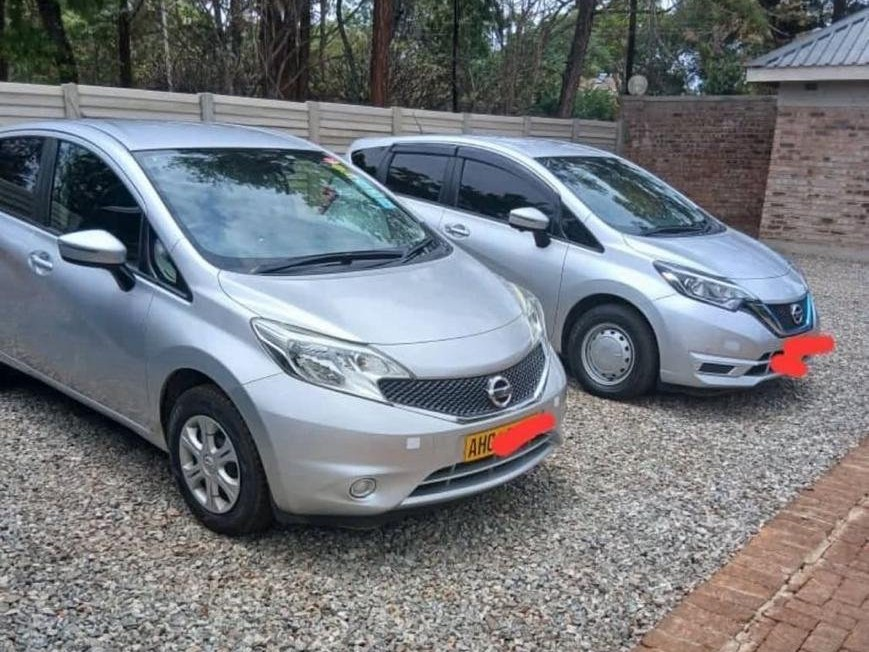
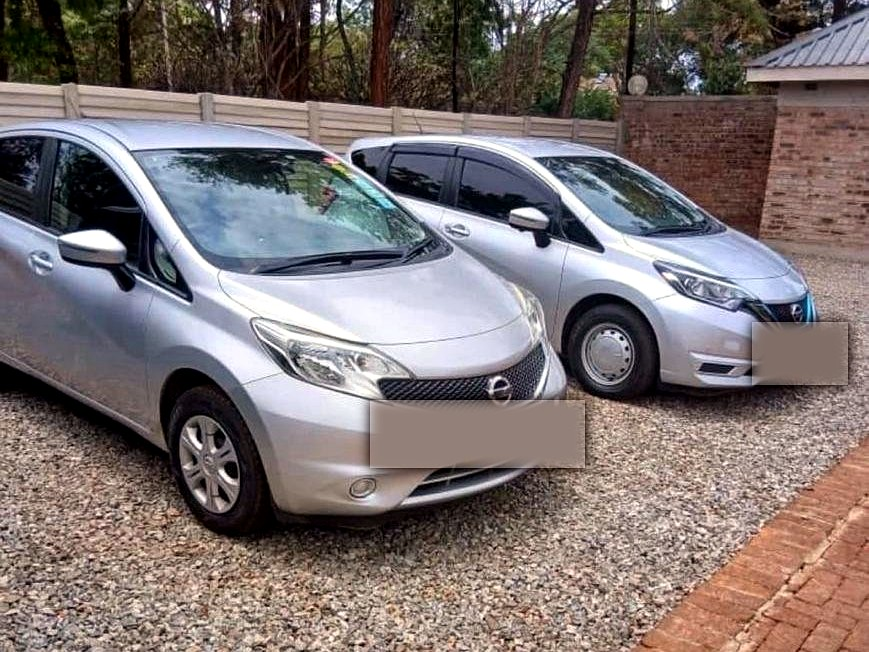
Add Facebook support to the social showcase (was Instagram/TikTok only), expand to 4 slots; fix Nissan Note photo's harsh red plate redaction marks (replaced with clean neutral blur, one plate was still partially legible)

diff --git a/src/components/site/sections.tsx b/src/components/site/sections.tsx
@@ -498,17 +498,19 @@ export function RequirementsSection() {
   );
 }
 
-type EmbedPlatform = "instagram" | "tiktok" | null;
+type EmbedPlatform = "instagram" | "tiktok" | "facebook" | null;
 
 function detectSocialPlatform(url: string): EmbedPlatform {
   if (/instagram\.com/.test(url)) return "instagram";
   if (/tiktok\.com/.test(url)) return "tiktok";
+  if (/facebook\.com|fb\.watch/.test(url)) return "facebook";
   return null;
 }
 
 const platformLabel: Record<Exclude<EmbedPlatform, null>, string> = {
   instagram: "Instagram",
   tiktok: "TikTok",
+  facebook: "Facebook",
 };
 
 export function SocialShowcaseSection() {
@@ -517,6 +519,7 @@ export function SocialShowcaseSection() {
     content.social_showcase_1,
     content.social_showcase_2,
     content.social_showcase_3,
+    content.social_showcase_4,
   ].filter((url): url is string => Boolean(url));
 
   return (
@@ -528,7 +531,7 @@ export function SocialShowcaseSection() {
         align="center"
       />
       {links.length > 0 ? (
-        <div className="mt-10 grid gap-6 sm:grid-cols-2 lg:grid-cols-3">
+        <div className="mt-10 grid gap-6 sm:grid-cols-2">
           {links.map((url, i) => {
             const platform = detectSocialPlatform(url);
             const label = platform ? platformLabel[platform] : "Social";

diff --git a/src/routes/admin/content.tsx b/src/routes/admin/content.tsx
@@ -18,9 +18,10 @@ const fieldLabels: Record<string, string> = {
   contact_phone_secondary: "Secondary phone",
   contact_email_sales: "Sales email",
   contact_email_bookings: "Bookings email",
-  social_showcase_1: "Featured post/reel #1 (Instagram or TikTok link)",
-  social_showcase_2: "Featured post/reel #2 (Instagram or TikTok link)",
-  social_showcase_3: "Featured post/reel #3 (Instagram or TikTok link)",
+  social_showcase_1: "Featured post/reel #1 (Instagram, TikTok or Facebook link)",
+  social_showcase_2: "Featured post/reel #2 (Instagram, TikTok or Facebook link)",
+  social_showcase_3: "Featured post/reel #3 (Instagram, TikTok or Facebook link)",
+  social_showcase_4: "Featured post/reel #4 (Instagram, TikTok or Facebook link)",
 };
 
 function AdminContent() {
